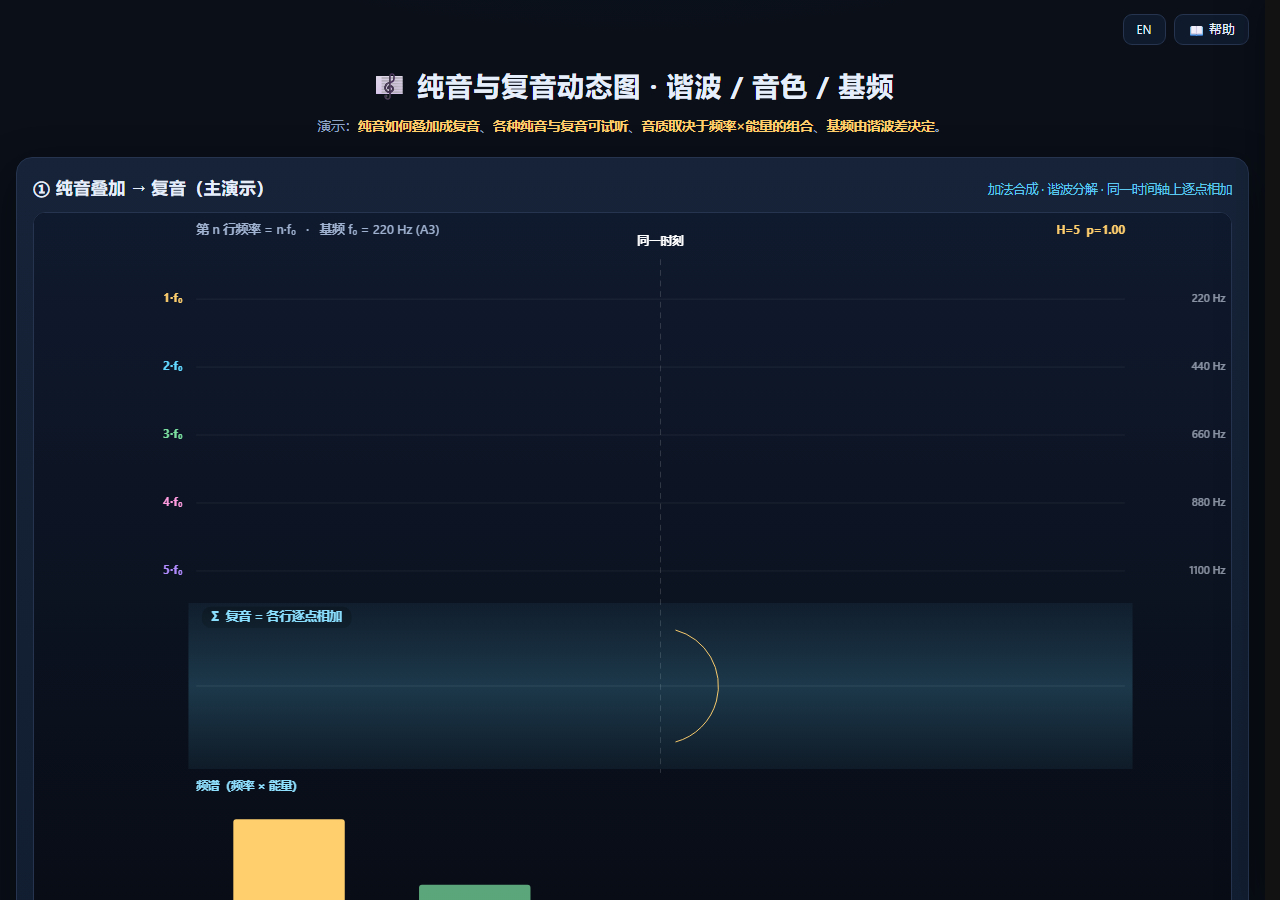
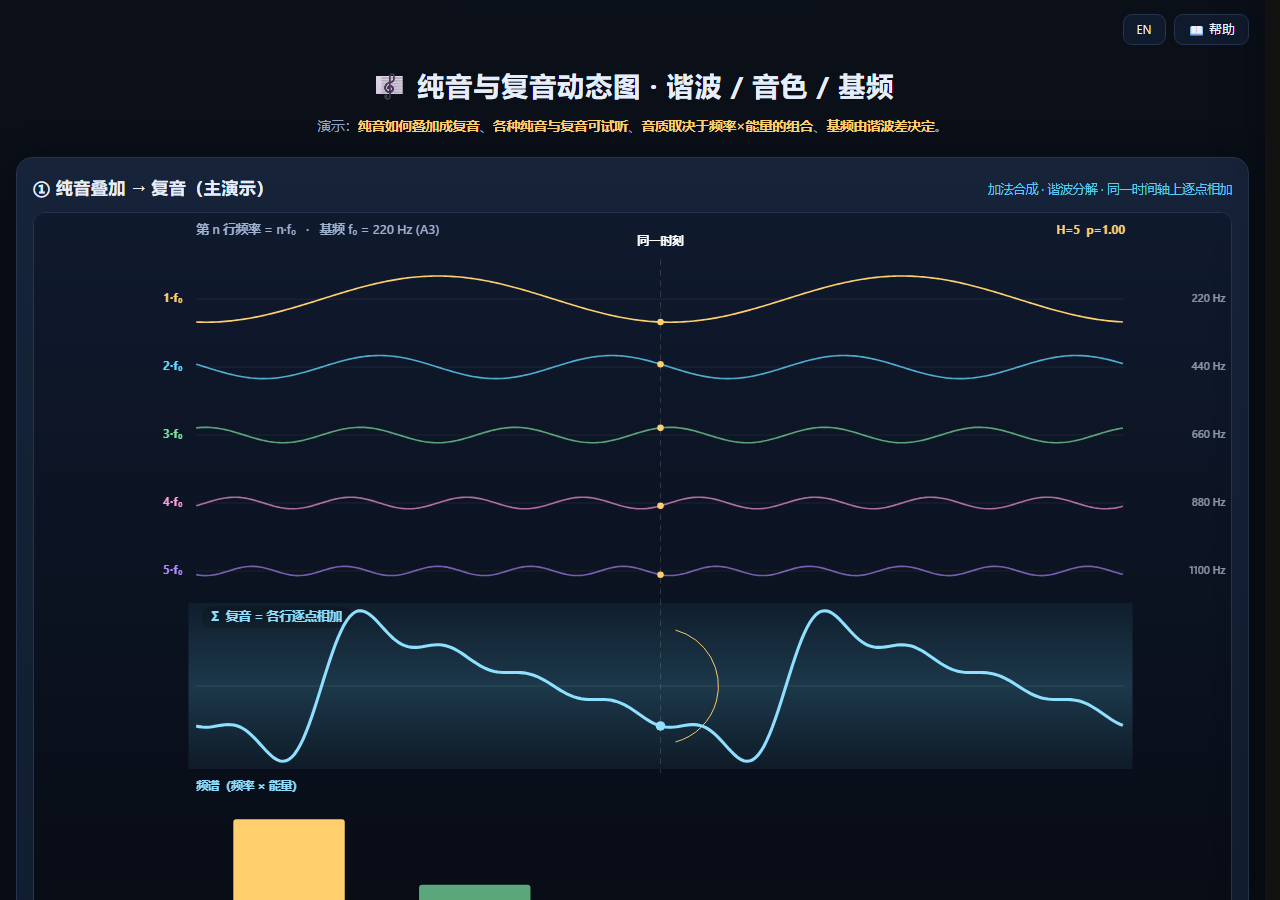
tone-anim: fix frozen additive demo - use ADD.scroll phase clock and raise default rate

diff --git a/tone-anim/index.html b/tone-anim/index.html
@@ -458,7 +458,7 @@ function drawAdd(ctx, time) {
   const ySumTop = cySumY - 86, ySumBot = cySumY + 86;
   const ySpecT = ySumBot + 22, ySpecB = H - 26; // 频谱区
   const cycles = 2;                              // 屏内显示 2 个基频周期
-  const dt = (P.scroll) % 1;
+  const dt = ADD.scroll;                     // 已滚动的基频周期数（相位时基）
   const phaseAt = x => 2 * Math.PI * ( ((x - x0) / width) * cycles + dt );
   /* 时间轴随时间右移：相位对 x 增加、对滚动参数减少 */
   const ampRows = ampArr(Hn);
@@ -892,7 +892,8 @@ function frame(now) {
   lastTs = now;
   if (P.running) {
     animT += dt;
-    ADD.scroll = animT * P.spd * 0.05;
+    ADD.scroll = animT * P.spd * 0.9;    // 滚动相位速率（速度滑杆可调）
+    if (ADD.scroll > 1e6) { animT = 0; ADD.scroll = 0; }  // 防止长时间运行数值过大
   }
   for (const id of CVS) {
     const ctx = setupCanvas(id);
